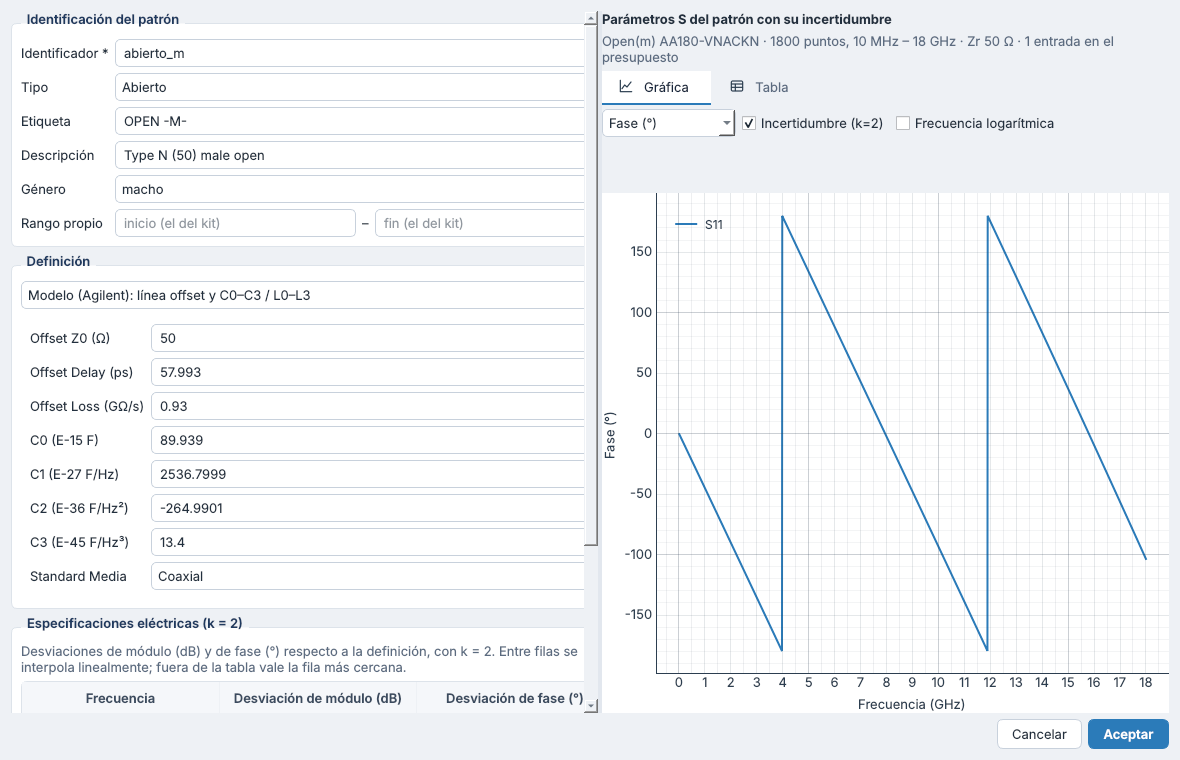
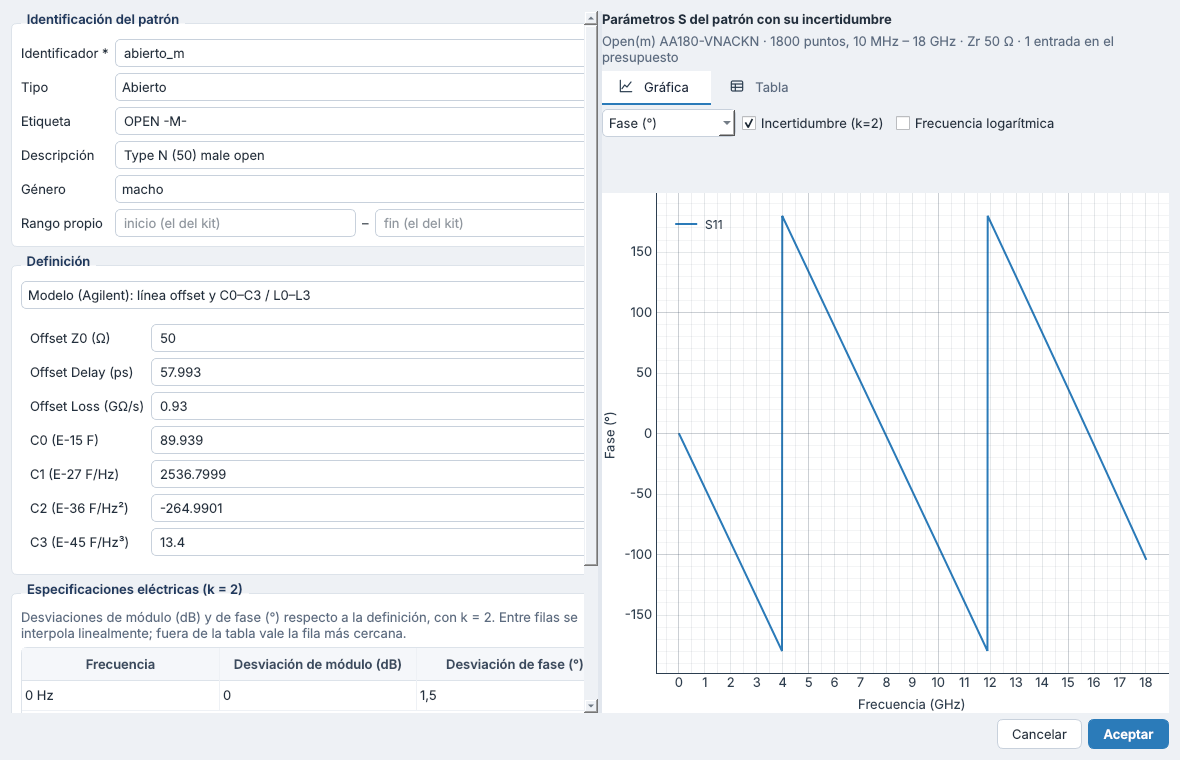
Kit standards: coaxial only, without the waveguide option (0.12.1)
The definition of a standard by the model of Keysight no longer has the
waveguide fields (Standard Media, Cutoff Frequency, Height / Width Ratio):
the laboratory does not calibrate in waveguide. A YAML with «medio: guia»
is rejected with a clear message; «medio: coaxial» is read and dropped.

Docs: 10 §7.2.1 explains the correlation between frequencies of the
electrical specifications (one input for all the frequencies: the
uncertainty of each point does not change, that of what combines
frequencies does), with the numbers of the open of the AA180-VNACKN, and
how to check it in VNA Tools.

Claude-Session: https://claude.ai/code/session_017L2bxXycRrKHY8VYGSLtnL

Changed region(s): [[0.0, 0.7263, 0.4881, 0.9382]]

diff --git a/src/calelektra/gui/kit_standards.py b/src/calelektra/gui/kit_standards.py
@@ -48,7 +48,7 @@ from PySide6.QtWidgets import (
 from calelektra.catalog.library import Library
 from calelektra.core.connectors import GENDERS
 from calelektra.core.frequency import FrequencyRange
-from calelektra.core.units import UnitError, format_frequency, parse_frequency
+from calelektra.core.units import UnitError, format_frequency
 from calelektra.gui.frequency_input import FrequencyDelegate, install_frequency_completion
 from calelektra.gui.icons import icon
 from calelektra.gui.plots import TRACE_COLORS, ChartTrace, TraceChart
@@ -347,20 +347,6 @@ class DefinitionEditor(QWidget):
         self.load_x.setPlaceholderText("0")
         self.model_form.addRow("Carga: R (Ω)", self.load_r)
         self.model_form.addRow("Carga: X (Ω)", self.load_x)
-        self.media = QComboBox()
-        self.media.addItem("Coaxial", "coaxial")
-        self.media.addItem("Guía de onda", "guia")
-        self.media.currentIndexChanged.connect(self._update_rows)
-        self.cutoff = QLineEdit()
-        self.cutoff.setPlaceholderText("p. ej. 6,557 GHz")
-        install_frequency_completion(self.cutoff)
-        self.ratio = QLineEdit("0.5")
-        self.model_form.addRow("Standard Media", self.media)
-        self.model_form.addRow("Cutoff Frequency", self.cutoff)
-        self.model_form.addRow("Height / Width Ratio", self.ratio)
-        self.waveguide_note = QLabel("El cálculo en guía de onda no está disponible: solo se guardan sus datos.")
-        self.waveguide_note.setStyleSheet("color: #c0392b;")
-        self.model_form.addRow(self.waveguide_note)
         self.stack.addWidget(model_page)
         # data
         data_page = QWidget()
@@ -390,7 +376,7 @@ class DefinitionEditor(QWidget):
         data_form.addRow(self.data_info)
         self.stack.addWidget(data_page)
         self.stack.addWidget(QLabel("Sin definición: un adaptador que hace de through desconocido, o un patrón pendiente de definir."))
-        for edit in [self.z0, self.delay, self.loss, *self.c, *self.l, self.load_r, self.load_x, self.cutoff, self.ratio, self.ports]:
+        for edit in [self.z0, self.delay, self.loss, *self.c, *self.l, self.load_r, self.load_x, self.ports]:
             edit.textEdited.connect(lambda _t: self.changed.emit())
         self._kind_changed()
 
@@ -410,9 +396,6 @@ class DefinitionEditor(QWidget):
             self.model_form.setRowVisible(edit, kind == "cortocircuito")
         for edit in (self.load_r, self.load_x):
             self.model_form.setRowVisible(edit, kind == "carga")
-        guide = self.media.currentData() == "guia"
-        for widget in (self.cutoff, self.ratio, self.waveguide_note):
-            self.model_form.setRowVisible(widget, guide)
         self.changed.emit()
 
     def set_type(self, kind: str) -> None:
@@ -465,9 +448,6 @@ class DefinitionEditor(QWidget):
         r, x = definition.load_impedance or (None, None)
         self.load_r.setText(_text(r))
         self.load_x.setText(_text(x))
-        self.media.setCurrentIndex(max(self.media.findData(definition.media), 0))
-        self.cutoff.setText(format_frequency(definition.cutoff_hz) if definition.cutoff_hz else "")
-        self.ratio.setText(_text(definition.height_width_ratio))
         self.file.setText(definition.file or "")
         self.ports.setText(", ".join(map(str, definition.ports)))
         self.reference.setText(definition.reference or "")
@@ -507,12 +487,6 @@ class DefinitionEditor(QWidget):
         x = _number(self.load_x.text(), "Carga: X", 0.0)
         if r is not None or x:
             load = [r if r is not None else _number(self.z0.text(), "Offset Z0", 50.0), x]
-        cutoff = None
-        if self.cutoff.text().strip():
-            try:
-                cutoff = parse_frequency(self.cutoff.text())
-            except UnitError as exc:
-                raise ValueError(f"«Cutoff Frequency»: {exc}") from exc
         return StandardDefinition(
             kind="modelo",
             offset_z0=_number(self.z0.text(), "Offset Z0", 50.0),
@@ -521,9 +495,6 @@ class DefinitionEditor(QWidget):
             capacitance=[_number(e.text(), f"C{k}", 0.0) for k, e in enumerate(self.c)],
             inductance=[_number(e.text(), f"L{k}", 0.0) for k, e in enumerate(self.l)],
             load_impedance=load,
-            media=self.media.currentData(),
-            cutoff_hz=cutoff,
-            height_width_ratio=_number(self.ratio.text(), "Height / Width Ratio", 0.5),
         )
 
 

diff --git a/src/calelektra/kits/model.py b/src/calelektra/kits/model.py
@@ -3,7 +3,8 @@
 As in METAS VNA Tools (manual §4.6), a standard is defined:
 
 * by the model of Keysight («Agilent model», ``clase: modelo``): an offset line (Z0, delay, loss) ended
-  by the capacitance C0–C3 of an open, the inductance L0–L3 of a short or a load; a through is the line;
+  by the capacitance C0–C3 of an open, the inductance L0–L3 of a short or a load; a through is the line.
+  Only coaxial standards: the laboratory does not calibrate in waveguide;
 * by data (``clase: datos``): its S-parameters in a ``.sdatb`` (with their uncertainty) or a Touchstone
   ``.sNp`` file (values only);
 * or not at all (``clase: ninguna``): the adapters of a kit, unknown throughs of the UOSM.
@@ -122,9 +123,6 @@ class StandardDefinition(BaseModel):
     capacitance: list[float] = Field(default_factory=lambda: [0.0, 0.0, 0.0, 0.0], alias="c")  # C0–C3, units C_UNITS
     inductance: list[float] = Field(default_factory=lambda: [0.0, 0.0, 0.0, 0.0], alias="l")  # L0–L3, units L_UNITS
     load_impedance: list[float] | None = Field(default=None, alias="impedancia_carga_ohm")  # R, X; by default the offset Z0
-    media: Literal["coaxial", "guia"] = Field(default="coaxial", alias="medio")
-    cutoff_hz: float | None = Field(default=None, alias="frecuencia_corte")
-    height_width_ratio: float = Field(default=0.5, alias="relacion_alto_ancho", gt=0)
     # data: a .sdatb or .sNp file, relative to the YAML that refers to it
     file: str | None = Field(default=None, alias="fichero")
     ports: list[int] = Field(default_factory=list, alias="puertos")  # ports of the file that are used (empty: all)
@@ -138,10 +136,15 @@ class StandardDefinition(BaseModel):
         value = [float(v) for v in value][:4]
         return value + [0.0] * (4 - len(value))
 
-    @field_validator("cutoff_hz", mode="before")
+    @model_validator(mode="before")
     @classmethod
-    def _cutoff(cls, value: Any) -> float | None:
-        return None if value in (None, "") else _frequency(value)
+    def _coaxial(cls, data: Any) -> Any:
+        """Only coaxial standards: a waveguide one is not accepted (``medio``, before 0.12.1)."""
+        if isinstance(data, dict) and "medio" in data:
+            if data["medio"] not in (None, "coaxial"):
+                raise ValueError("los patrones en guía de onda no se admiten: solo coaxiales")
+            data = {k: v for k, v in data.items() if k not in ("medio", "frecuencia_corte", "relacion_alto_ancho")}
+        return data
 
     @model_validator(mode="after")
     def _check(self) -> StandardDefinition:
@@ -167,17 +170,12 @@ class StandardDefinition(BaseModel):
         data = self.model_dump(
             by_alias=True,
             exclude_none=True,
-            include={"kind", "offset_z0", "offset_delay_ps", "offset_loss", "capacitance", "inductance", "load_impedance", "media", "cutoff_hz", "height_width_ratio"},
+            include={"kind", "offset_z0", "offset_delay_ps", "offset_loss", "capacitance", "inductance", "load_impedance"},
         )
         if not any(self.capacitance):
             data.pop("c")
         if not any(self.inductance):
             data.pop("l")
-        if self.media == "coaxial":
-            for key in ("medio", "frecuencia_corte", "relacion_alto_ancho"):
-                data.pop(key, None)
-        elif self.cutoff_hz is not None:
-            data["frecuencia_corte"] = format_frequency(self.cutoff_hz, decimal=".")
         return data
 
 

diff --git a/src/calelektra/kits/agilent.py b/src/calelektra/kits/agilent.py
@@ -17,7 +17,7 @@ The reflection is referred to the reference impedance Zr of the kit:
     Γ  = [Γ1·(1 − E − Γ1·ΓL) + E·ΓL] / [1 − Γ1·(E·Γ1 + ΓL·(1 − E))]
 
 which is the input impedance of the line, Zin = Zc·(Z + Zc·tanh γl)/(Zc + Z·tanh γl), seen from Zr.
-The model is not defined at DC (the loss term grows as 1/√f): f > 0. Only coaxial media.
+The model is not defined at DC (the loss term grows as 1/√f): f > 0. Coaxial standards only.
 """
 
 from __future__ import annotations
@@ -29,8 +29,6 @@ from calelektra.kits.model import C_UNITS, L_UNITS, KitError, KitStandard, Stand
 
 def offset_line(f: np.ndarray, definition: StandardDefinition) -> tuple[np.ndarray, np.ndarray]:
     """Characteristic impedance and γ·l of the offset line."""
-    if definition.media != "coaxial":
-        raise KitError("El modelo de guía de onda no está disponible: solo medios coaxiales")
     f = np.asarray(f, float)
     if np.any(f <= 0):
         raise KitError("El modelo del patrón no está definido en DC: las frecuencias deben ser mayores que 0 Hz")

diff --git a/tests/test_kits.py b/tests/test_kits.py
@@ -104,8 +104,9 @@ def test_the_model_of_keysight_as_vna_tools():
     assert np.allclose(reflection(f, "cortocircuito", definition), (zin - 50) / (zin + 50), rtol=0, atol=1e-12)
     with pytest.raises(KitError, match="DC"):
         model_s(standards["abierto_m"], np.array([0.0, 1e9]))
-    with pytest.raises(KitError, match="guía de onda"):
-        model_s(standards["abierto_m"], f, definition=definition.model_copy(update={"media": "guia"}))
+    with pytest.raises(ValueError, match="guía de onda"):  # only coaxial standards
+        StandardDefinition.model_validate({"clase": "modelo", "medio": "guia", "frecuencia_corte": "6.557 GHz"})
+    assert "medio" not in StandardDefinition.model_validate({"clase": "modelo", "medio": "coaxial"}).to_yaml()
 
 
 def test_frequencies_of_the_kit():

diff --git a/src/calelektra/__init__.py b/src/calelektra/__init__.py
@@ -1,3 +1,3 @@
 """CAL-ELEKTRA: software de laboratorio de calibración de equipos de MC."""
 
-__version__ = "0.12.0"
+__version__ = "0.12.1"

diff --git a/docs/10_algoritmos_de_incertidumbre.md b/docs/10_algoritmos_de_incertidumbre.md
@@ -525,7 +525,7 @@ La reflexión, referida a la impedancia de referencia Zr del kit (50 Ω):
 
   Con retardo 0, S21 = 1 y S11 = 0, sean cuales sean sus pérdidas.
 - **DC:** el modelo no está definido en DC (el término de pérdidas crece como 1/√f), así que las frecuencias son siempre mayores que 0.
-- **Medio:** solo coaxial.
+- **Medio:** solo patrones coaxiales; desde 0.12.1 no hay opción de guía de onda.
 
 ### 7.2 Incertidumbre de las especificaciones eléctricas (k = 2)
 
@@ -542,6 +542,23 @@ La reflexión, referida a la impedancia de referencia Zr del kit (50 Ω):
 | Through | Desviación de módulo y de fase de la transmisión | Como en el abierto, una entrada para cada una, la misma en S21 y S12 (es recíproco) |
 
 **Ficheros por datos:** un `.sdatb` trae su propia incertidumbre y no se le añade la de las especificaciones; un `.sNp`, sí.
+
+#### 7.2.1 Correlación entre frecuencias
+
+Dos valores están correlacionados si dependen de las mismas entradas (§6.1). Cada especificación es **una sola entrada para todas las frecuencias**, así que la desviación que representa está **totalmente correlacionada entre frecuencias**: si el abierto real se desvía +0,6° de su definición a 1 GHz, el modelo supone que se desvía en el mismo sentido en toda la banda, con el tamaño que da la tabla en cada frecuencia (correlación ±1 entre los puntos). Es lo que corresponde a un error de definición del patrón, que es sistemático y varía suavemente con la frecuencia. Lo contrario, una entrada por frecuencia, supondría un patrón cuya desviación cambia al azar de un punto al siguiente.
+
+- **No cambia:** la incertidumbre de cada punto, con k = 2. Es la que muestran la gráfica y la tabla, la que el laboratorio comprobó en VNA Tools y la única que guarda un `.sdatcv`.
+- **Sí cambia:** todo lo que combina varias frecuencias del mismo patrón. Con el abierto macho del AA180-VNACKN (fase 1,5°, k = 2; u = 0,75° en cada punto):
+
+  | Magnitud | Correlación total (CAL-ELEKTRA) | Puntos independientes |
+  |---|---|---|
+  | Diferencia de fase entre 1 GHz y 1,01 GHz | u = 0° (la desviación es la misma en los dos) | u = √2·0,75° = 1,06° |
+  | Retardo de grupo en ese paso, u(Δφ)/(360°·Δf) | 0 ns | 0,29 ns |
+  | Fase media en toda la banda (1800 puntos) | u = 0,75° (no se reduce) | u = 0,75°/√1800 = 0,018° |
+
+- **Dónde importará:** al usar los patrones en una calibración, su incertidumbre pasa a las medidas corregidas. Un retardo de grupo calculado con esas medidas, o una media en banda, dependen de la correlación de los patrones.
+- **Ficheros:** un `.sdatb` guarda la correlación entre frecuencias (y entre ficheros); un `.sdatcv` no. Al leer un `.sdatcv`, cada frecuencia recibe sus propias entradas (§6.3).
+- **Pendiente de confirmar:** que VNA Tools construye igual sus «Electrical Specifications». Se ve en Data Explorer, con su vista «Covariance» en modo «Correlation», todas las frecuencias y un parámetro: en un `.sdatb` de CAL-ELEKTRA la matriz es toda ±1.
 
 **Tabla de un patrón** (`table_rows`), en cada frecuencia y parámetro, con la covarianza C de la parte real y la imaginaria:
 - U(Re) = k·√C₁₁ y U(Im) = k·√C₂₂;

diff --git a/docs/15_kits_de_calibracion.md b/docs/15_kits_de_calibracion.md
@@ -1,4 +1,4 @@
-# Kits de calibración: alta y definición de sus patrones — versión 0.12
+# Kits de calibración: alta y definición de sus patrones — versiones 0.12 y 0.12.1
 
 ## 1. Qué cambia
 
@@ -60,11 +60,9 @@ Los campos de VNA Tools, en sus unidades:
 | C0, C1, C2, C3 (abierto) | 10⁻¹⁵ F, 10⁻²⁷ F/Hz, 10⁻³⁶ F/Hz², 10⁻⁴⁵ F/Hz³ |
 | L0, L1, L2, L3 (cortocircuito) | 10⁻¹² H, 10⁻²⁴ H/Hz, 10⁻³³ H/Hz², 10⁻⁴² H/Hz³ |
 | Impedancia de la carga (carga) | R y X en Ω; vacía: la de Z0 |
-| Standard Media | Coaxial o guía de onda |
-| Cutoff Frequency, Height / Width Ratio | Solo en guía (0,5 por defecto) |
 
 - Las fórmulas están en [`10_algoritmos_de_incertidumbre.md`](10_algoritmos_de_incertidumbre.md) §7.
-- La guía de onda se guarda, pero su cálculo no está disponible: el laboratorio trabaja en coaxial.
+- Solo patrones coaxiales. Desde 0.12.1 no hay opción de guía de onda («Standard Media», «Cutoff Frequency», «Height / Width Ratio»): el laboratorio no calibra en guía. Un YAML con `medio: guia` da error.
 
 ### 3.3 Por datos
 
@@ -84,6 +82,8 @@ Una tabla con una fila por frecuencia. Entre filas se interpola linealmente y, f
 | Through | Pérdidas de retorno de las reflexiones; desviación de módulo (dB) y de fase (°) de la transmisión |
 
 Cómo se convierten en incertidumbre: [`10_algoritmos_de_incertidumbre.md`](10_algoritmos_de_incertidumbre.md) §7.2. Así se construyeron los ficheros del kit AA180-VNACKN que el laboratorio comprobó en VNA Tools.
+
+Cada especificación es una sola contribución, común a todas las frecuencias: la desviación de un patrón respecto a su definición está totalmente correlacionada entre frecuencias. No cambia la incertidumbre de cada punto, pero sí la de lo que combina frecuencias, como un retardo de grupo o una media en una banda: ver §7.2.1 de [`10_algoritmos_de_incertidumbre.md`](10_algoritmos_de_incertidumbre.md).
 
 ## 4. Importar un `.ckt`
 
@@ -195,7 +195,7 @@ patrones:
 - **P8, el kit del VNA es el de la biblioteca:** cargar en el VNA la definición de la biblioteca, o comprobar la que tiene.
 - **Peticiones y registro con el patrón exacto:** p. ej. «Conecte el abierto hembra nº 975».
 - **Calibre de los patrones.**
-- **Otros cálculos:** la guía de onda y otros tipos de patrón (carga deslizante, líneas TRL).
+- **Otros tipos de patrón:** carga deslizante, líneas TRL.
 - **Incertidumbre de la medida:** la de los patrones no entra en la incertidumbre de las medidas, que sigue siendo el algoritmo del laboratorio.
 
 ## 11. Código y pruebas

diff --git a/README.md b/README.md
@@ -10,7 +10,7 @@ Ejemplos de lo que cubre:
 
 ## Estado
 
-**Versión 0.12.0** — funcional con el VNA simulado:
+**Versión 0.12.1** — funcional con el VNA simulado:
 
 - **Equipos definidos por categorías con campos tipados** (rango, puertos, conectores, potencia, IFBW, métodos de calibración, kit, longitud…). Los modelos dan los valores comunes y cada equipo los suyos; altas y ediciones con formularios generados a partir de esos campos. Los **modelos de EUT** llevan sus **especificaciones S** (ficheros S2P) para el **pasa / falla**; los cables también se pueden especificar **por fórmula** (atenuación K1·√f + K2·f y VSWR de los conectores, también por bandas de frecuencia, con las tolerancias de la plantilla de ensayo) y llevan los **datos de su hoja**: impedancia, retardo nominal, que se compara con el medido, radio de curvatura, que se recuerda al operador, y otros.
 - **Hardware setups con una estructura común**: el VNA a la izquierda, una línea que se divide en sus puertos (P1, P2…) y, de cada puerto, un **camino** (cables de medida, adaptadores, paths, preamplificadores…, en orden) que lleva el plano de referencia hasta el puerto del DUT. El conector del final de cada camino dice **qué conectores de DUT se pueden calibrar** con el setup. Se dibujan como en ELEKTRA, con un **icono para cada familia de equipos**, y un acoplador direccional se ve con sus cuatro puertos conectados a los planos y a las cargas (también en cada par al calibrarlo). Ver [`docs/12_iconos_y_conexiones_de_los_hardware_setups.md`](docs/12_iconos_y_conexiones_de_los_hardware_setups.md). Cada setup tiene sus **frecuencias de medida** (lineal por nº de puntos o por paso, logarítmico o lista CSV), alarma de rango, **requisitos sobre los campos**, comprobación de **conectores** de cada unión y **diseño automático de la calibración** del VNA (TOSM si los planos se unen; si no, UOSM; OSM en 1 puerto; normalización de transmisión). Ver [`docs/09_caminos_y_nuevas_plantillas.md`](docs/09_caminos_y_nuevas_plantillas.md).

diff --git a/CLAUDE.md b/CLAUDE.md
@@ -24,8 +24,8 @@
 - Kits de calibración (`kits/`):
   - El modelo del kit lista sus patrones (`EquipmentModel.patrones`: `KitStandard` de `kits/model.py`): tipo (abierto, cortocircuito, carga, through o adaptador, el through desconocido), géneros, definición (`clase`: `modelo`, `datos` o `ninguna`) y especificaciones eléctricas (k = 2).
   - Cada unidad da, por id del patrón, su nº de serie, su estado (en uso, dañado o sustituido, con fecha) y su definición o especificaciones propias, p. ej. los datos de su certificado (`Equipment.patrones`: `UnitStandard`).
-  - Modelo de Keysight («Agilent model» de VNA Tools, `kits/agilent.py`): Z0, retardo (ps), pérdidas (GΩ/s), C0–C3 y L0–L3 en las unidades de VNA Tools. Solo coaxial: la guía se guarda y no se calcula. Sin DC.
-  - Especificaciones → una entrada por magnitud, común a todas las frecuencias (`kits/specs.py`). Un `.sdatb` trae su incertidumbre; un `.sNp` recibe la de las especificaciones.
+  - Modelo de Keysight («Agilent model» de VNA Tools, `kits/agilent.py`): Z0, retardo (ps), pérdidas (GΩ/s), C0–C3 y L0–L3 en las unidades de VNA Tools. Solo coaxial: no hay opción de guía de onda (0.12.1; un YAML con `medio: guia` da error). Sin DC.
+  - Especificaciones → una entrada por magnitud, común a todas las frecuencias: correlación total entre frecuencias, que no cambia la u de cada punto pero sí la de lo que combina frecuencias (`kits/specs.py`, `docs/10` §7.2.1). Un `.sdatb` trae su incertidumbre; un `.sNp` recibe la de las especificaciones.
   - Zr y puntos: campos `zr_real_ohm`, `zr_imag_ohm` y `puntos_patrones`. El inicio y el fin son el `rango_frecuencia` del kit; desde DC se empieza un paso por encima.
   - `.ckt` de Keysight (`kits/ckt.py`, formato descifrado por inspección); el del AA180-VNACKN está en `tests/datos/kits/`.
   - Ficheros de datos en `catalogo/patrones/<kit>/` con su SHA-256 (`copy_standard_file`).
